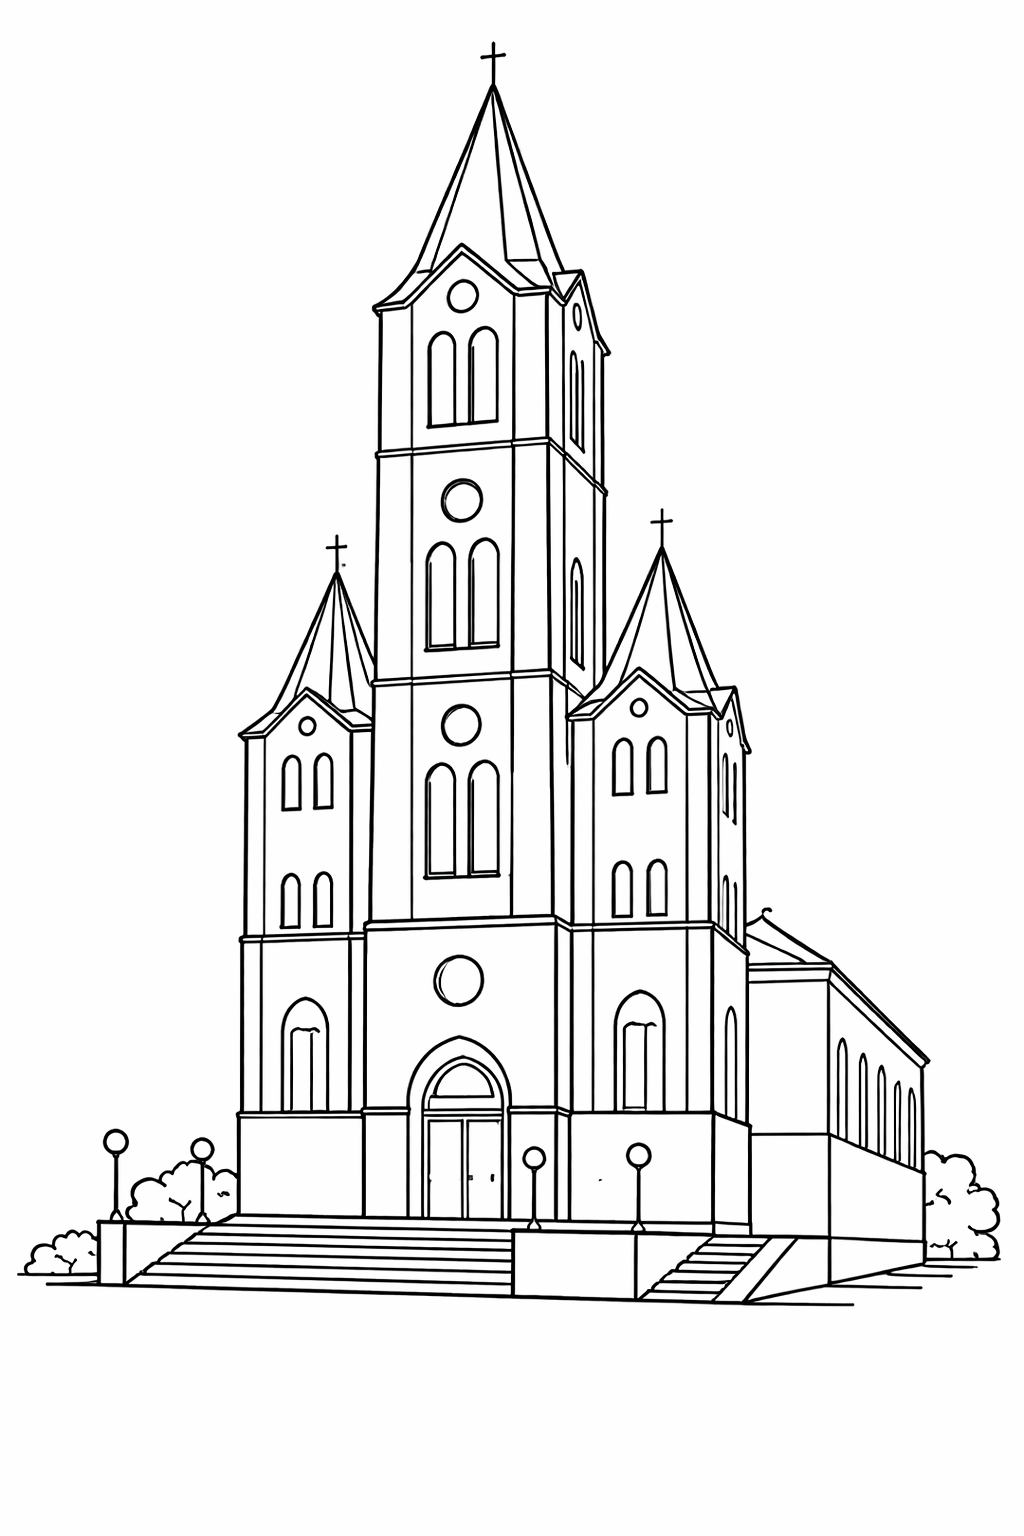
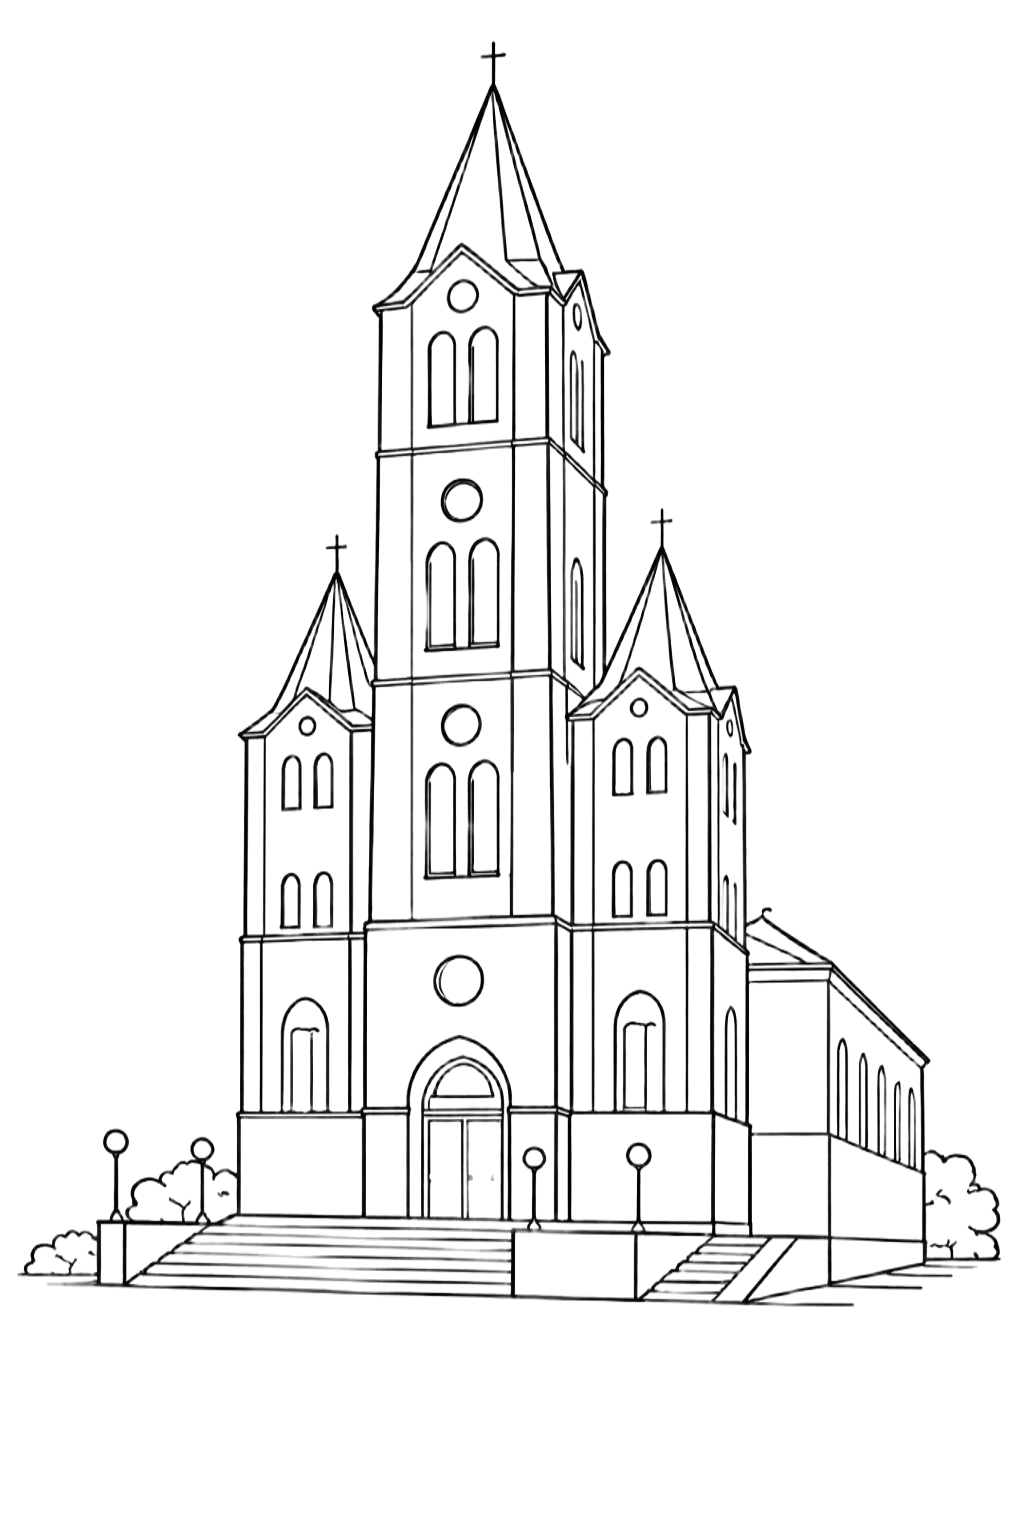
crkkva png

diff --git a/app/page.tsx b/app/page.tsx
@@ -99,7 +99,7 @@ export default function HomePage() {
           <Hero
             leftName={leftName}
             rightName={rightName}
-            imageSrc="/crkva1.png"
+            imageSrc="/crkva.png"
             imageAlt="Crkva"
             animate={hideOverlay}
           />
